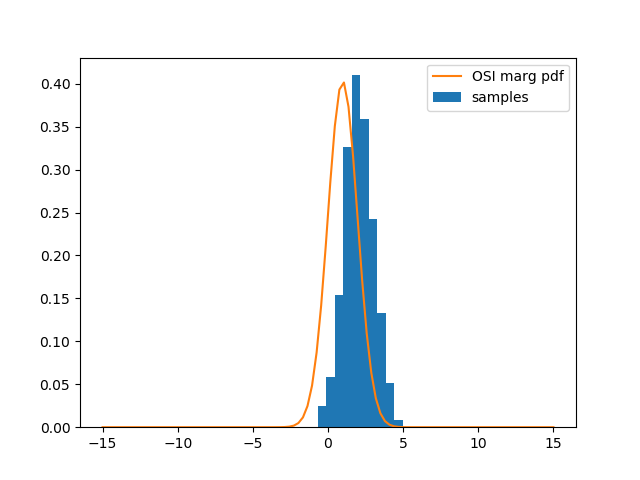
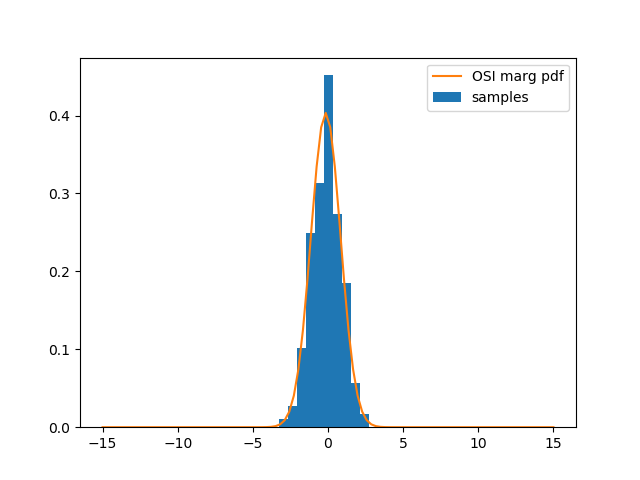
rerun prev, realize I've been plotting the LOSI (not OSI) params which didn't fit the samples well

diff --git a/osi/hybrid_mln_experiment.py b/osi/hybrid_mln_experiment.py
@@ -111,6 +111,8 @@ for _ in range(num_tests):
     print(rvs_table)
 
     print('number of rvs', len(g.rvs))
+    print('num drvs', len([rv for rv in g.rvs if rv.domain_type[0] == 'd']))
+    print('num crvs', len([rv for rv in g.rvs if rv.domain_type[0] == 'c']))
     print('number of factors', len(g.factors))
     print('number of evidence', len(data))
 
@@ -125,10 +127,10 @@ for _ in range(num_tests):
 
     # sampling baseline
     name = 'GS'
-    num_burnin = 500
-    num_samples = 1000
+    num_burnin = 400
+    num_samples = 500
     num_gm_components_for_crv = 3
-
+    disc_block_its = 40
     g2 = copy(g)  # shallow copy
     g2.factors = []
     # convert factors to the form accepted by HybridGaussianSampler
@@ -147,7 +149,7 @@ for _ in range(num_tests):
     utils.set_log_potential_funs(g2.factors, skip_existing=False)  # create lpot_funs to be used by baseline
     g2.init_rv_indices()
     hgsampler = HybridGaussianSampler(g2)
-    hgsampler.block_gibbs_sample(num_burnin=num_burnin, num_samples=num_samples, disc_block_its=30)
+    hgsampler.block_gibbs_sample(num_burnin=num_burnin, num_samples=num_samples, disc_block_its=disc_block_its)
     np.save('cont_samples', hgsampler.cont_samples)
     np.save('disc_samples', hgsampler.disc_samples)
 
@@ -177,8 +179,8 @@ for _ in range(num_tests):
     name = 'OSI'
     K = 1
     T = 10
-    lr = 0.4
-    its = 200
+    lr = 0.5
+    its = 500
     fix_mix_its = int(its * 0.5)
     logging_itv = 50
     res = np.zeros((len(key_list), num_runs))
@@ -206,17 +208,18 @@ for _ in range(num_tests):
     cg.run()
     print('number of rvs in cg', len(cg.rvs))
     print('number of factors in cg', len(cg.factors))
-    osi = LiftedOneShot(g=cg, K=K, T=T, seed=seed)  # can be moved outside of all loops if the ground MRF doesn't change
+    losi = LiftedOneShot(g=cg, K=K, T=T,
+                         seed=seed)  # can be moved outside of all loops if the ground MRF doesn't change
     for j in range(num_runs):
         start_time = time.process_time()
-        osi.run(lr=lr, its=its, fix_mix_its=fix_mix_its, logging_itv=logging_itv)
+        losi.run(lr=lr, its=its, fix_mix_its=fix_mix_its, logging_itv=logging_itv)
         time_cost[name] = (time.process_time() - start_time) / num_runs / num_tests + time_cost.get(name, 0)
         print(name, f'time {time.process_time() - start_time}')
         for i, key in enumerate(key_list):
-            res[i, j] = osi.map(obs_rvs=[], query_rv=rvs_table[key])
+            res[i, j] = losi.map(obs_rvs=[], query_rv=rvs_table[key])
         print(res[:, j])
         # print(osi.params)
-        print('Mu =\n', osi.params['Mu'], '\nVar =\n', osi.params['Var'])
+        print('Mu =\n', losi.params['Mu'], '\nVar =\n', losi.params['Var'])
     for i, key in enumerate(key_list):
         res[i, :] -= ans[key]
     avg_diff[name] = np.average(np.average(abs(res), axis=1)) / num_tests + avg_diff.get(name, 0)
@@ -225,7 +228,7 @@ for _ in range(num_tests):
     print(name, 'var', np.average(np.average(res ** 2, axis=1)) - np.average(np.average(abs(res), axis=1)) ** 2)
 
 print('plotting example marginal from last run')
-test_crv_idx = 0
+test_crv_idx = 2
 osi_test_crv_marg_params = osi.params['w'], osi.params['Mu'][test_crv_idx], osi.params['Var'][test_crv_idx]
 
 import matplotlib.pyplot as plt
